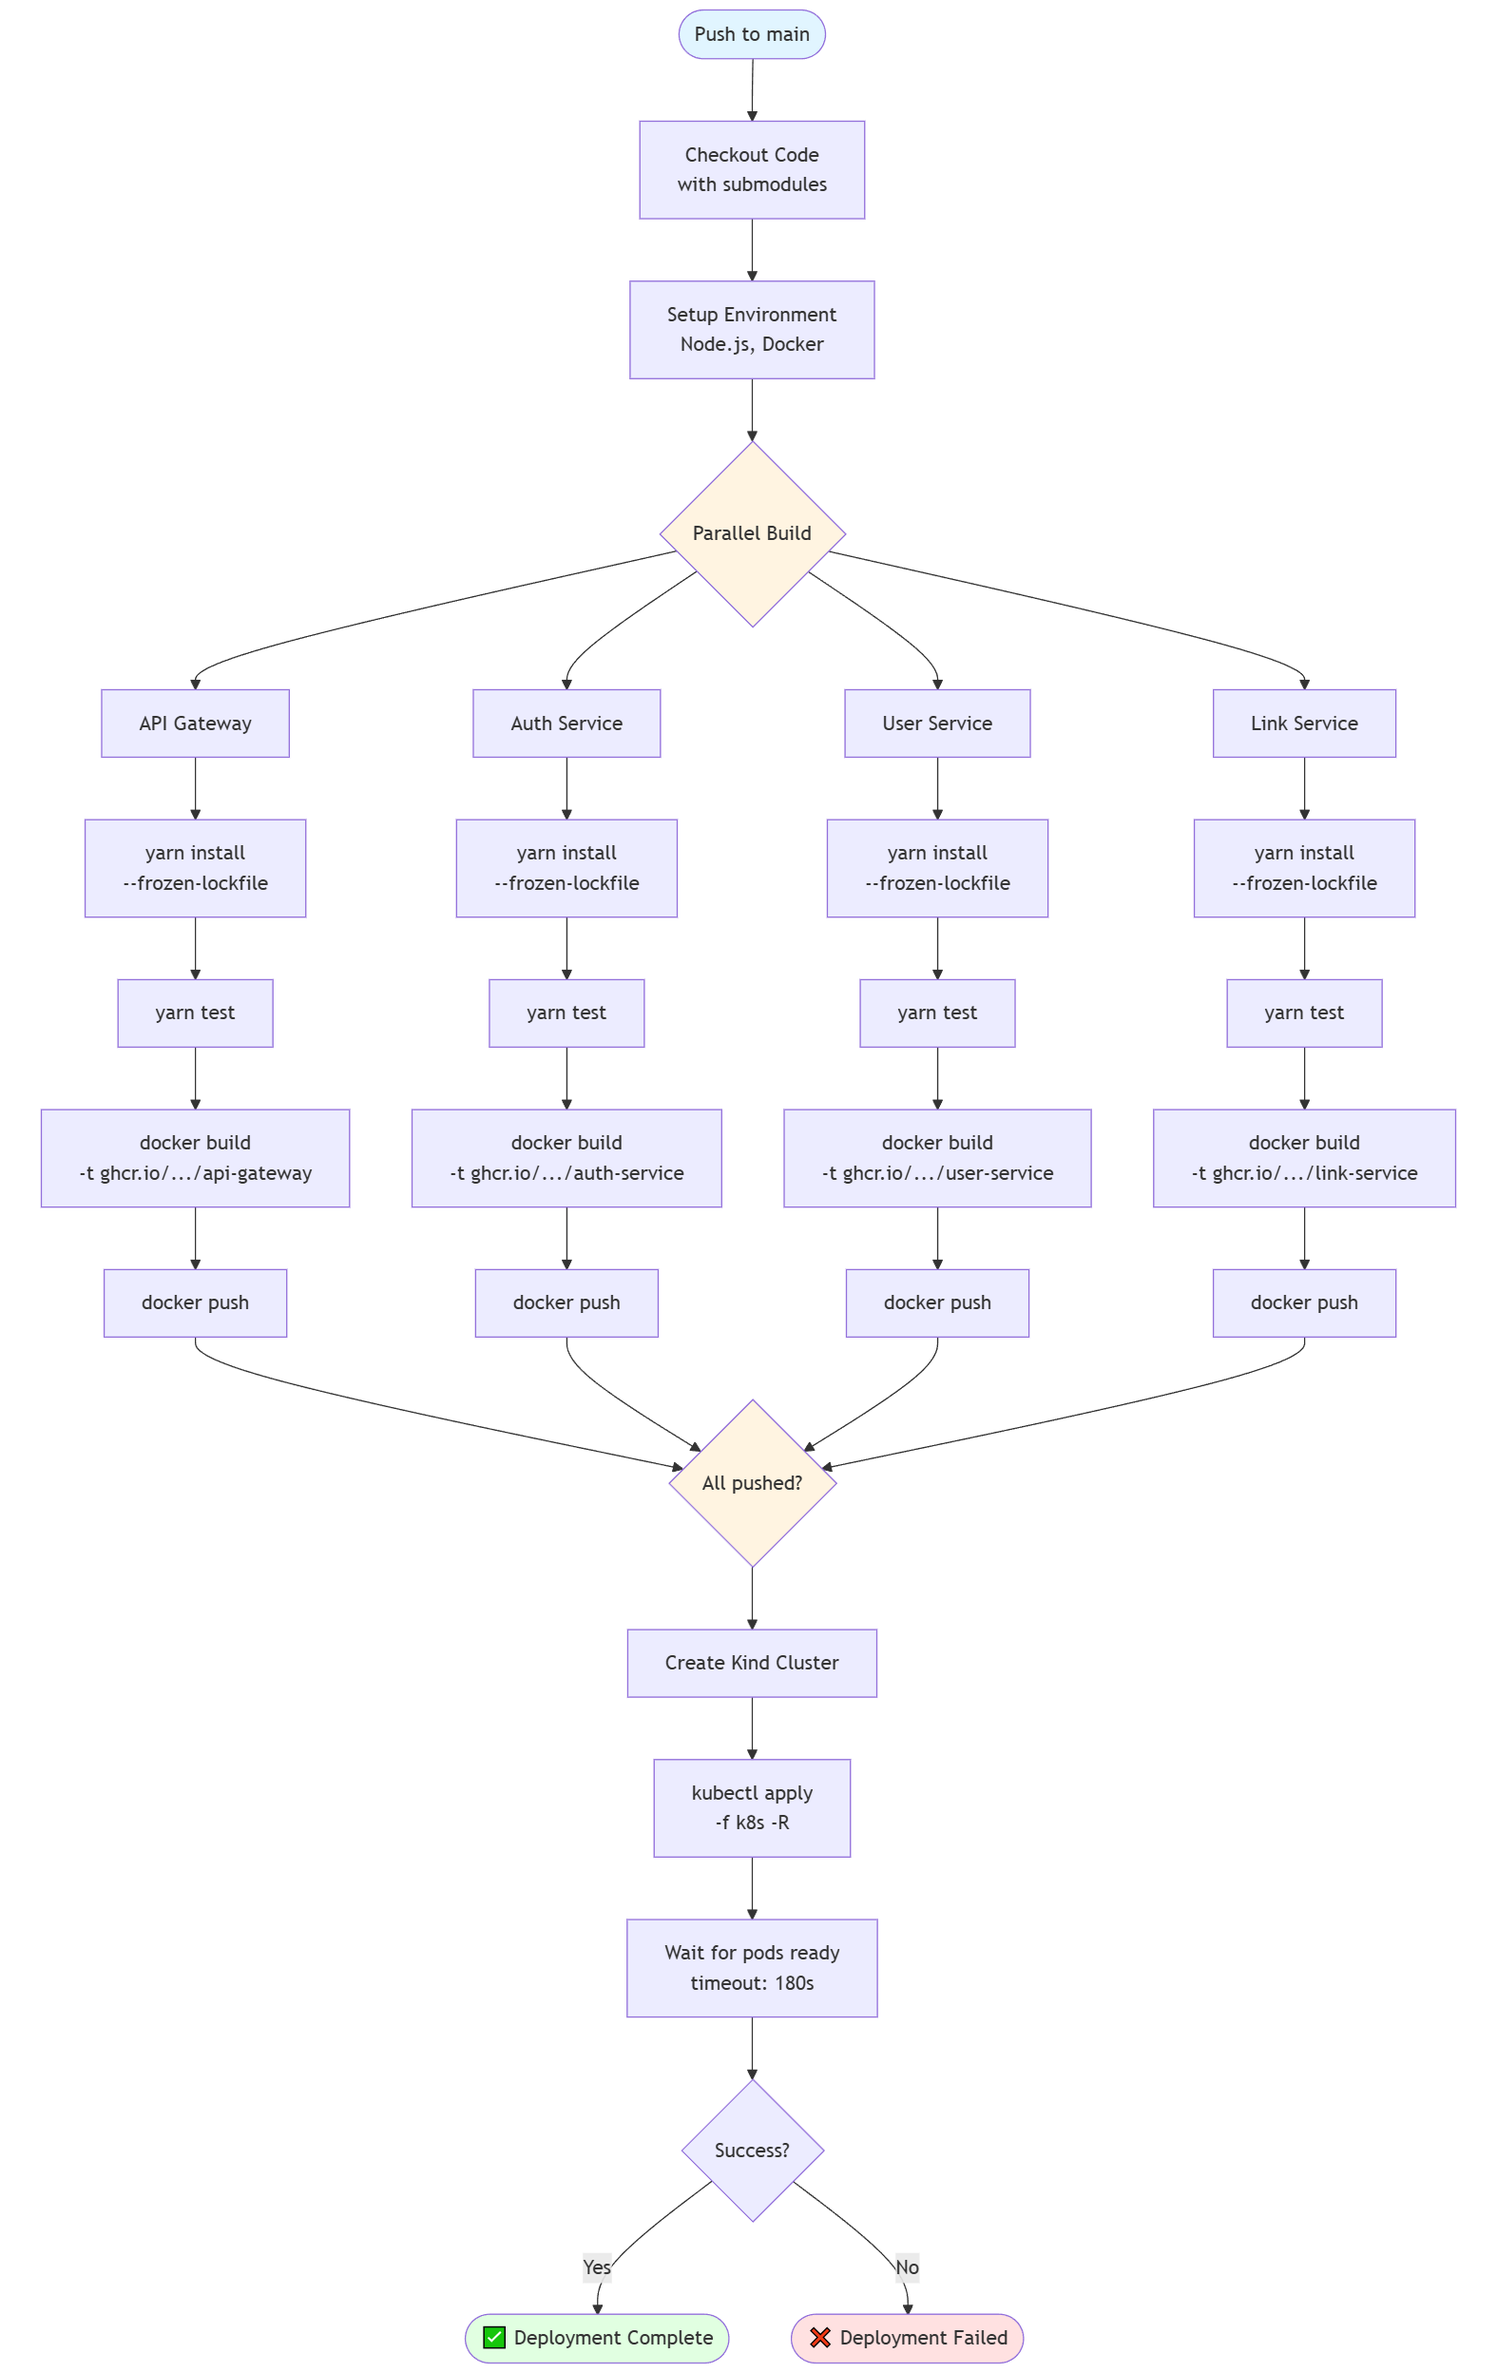
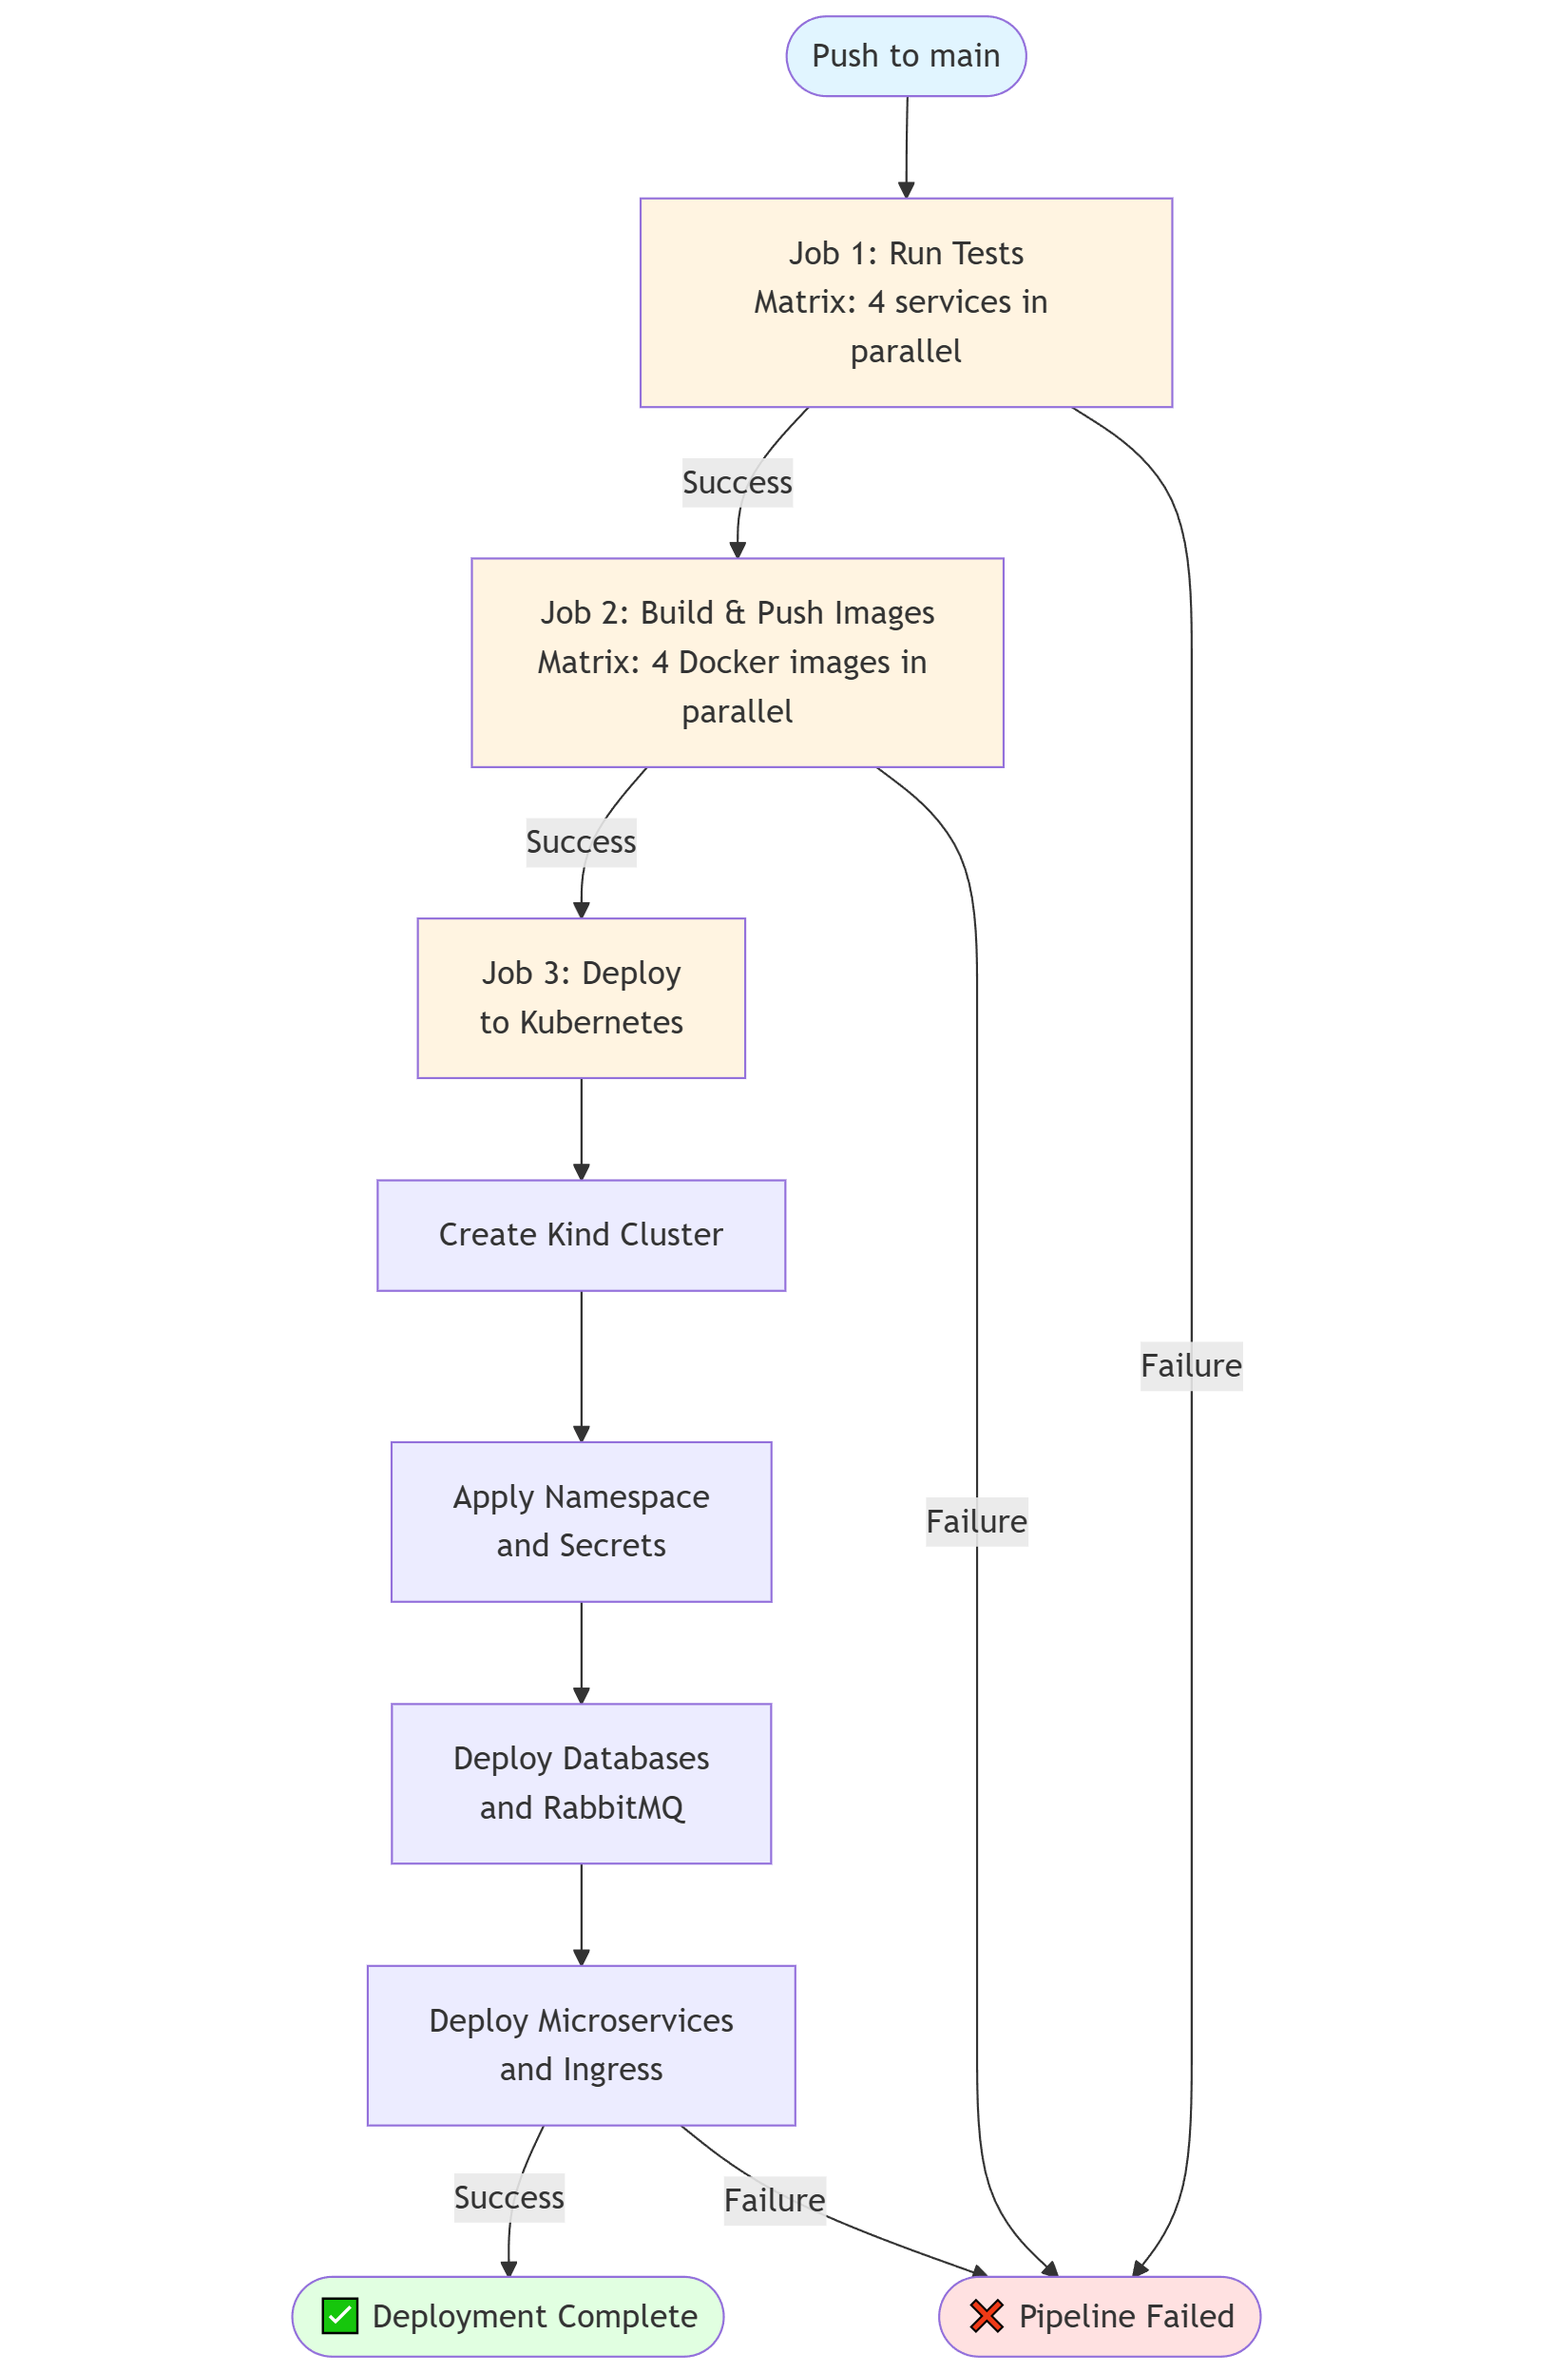
chore: update assets folder

diff --git a/assets/diagrams.md b/assets/diagrams.md
@@ -594,59 +594,31 @@ sequenceDiagram
 
 ### 7.1 GitHub Actions Workflow
 
-```mermaid
-graph TB
-    Start([Push to main]) --> Checkout[Checkout Code<br/>with submodules]
-    Checkout --> Setup[Setup Environment<br/>Node.js, Docker]
+````mermaid
+graph TD
+    Start([Push to main]) --> Job1[Job 1: Run Tests<br/>Matrix: 4 services in parallel]
 
-    Setup --> Parallel{Parallel Build}
+    Job1 -->|Success| Job2[Job 2: Build & Push Images<br/>Matrix: 4 Docker images in parallel]
+    Job1 -->|Failure| Failed([❌ Pipeline Failed])
 
-    Parallel --> Gateway[API Gateway]
-    Parallel --> Auth[Auth Service]
-    Parallel --> User[User Service]
-    Parallel --> Link[Link Service]
+    Job2 -->|Success| Job3[Job 3: Deploy to Kubernetes]
+    Job2 -->|Failure| Failed
 
-    Gateway --> GW_Install[yarn install<br/>--frozen-lockfile]
-    Auth --> AS_Install[yarn install<br/>--frozen-lockfile]
-    User --> US_Install[yarn install<br/>--frozen-lockfile]
-    Link --> LS_Install[yarn install<br/>--frozen-lockfile]
+    Job3 --> K8s_1[Create Kind Cluster]
+    K8s_1 --> K8s_2[Apply Namespace & Secrets]
+    K8s_2 --> K8s_3[Deploy Databases & RabbitMQ]
+    K8s_3 --> K8s_4[Deploy Microservices & Ingress]
 
-    GW_Install --> GW_Test[yarn test]
-    AS_Install --> AS_Test[yarn test]
-    US_Install --> US_Test[yarn test]
-    LS_Install --> LS_Test[yarn test]
-
-    GW_Test --> GW_Build[docker build<br/>-t ghcr.io/.../api-gateway]
-    AS_Test --> AS_Build[docker build<br/>-t ghcr.io/.../auth-service]
-    US_Test --> US_Build[docker build<br/>-t ghcr.io/.../user-service]
-    LS_Test --> LS_Build[docker build<br/>-t ghcr.io/.../link-service]
-
-    GW_Build --> GW_Push[docker push]
-    AS_Build --> AS_Push[docker push]
-    US_Build --> US_Push[docker push]
-    LS_Build --> LS_Push[docker push]
-
-    GW_Push --> Merge{All pushed?}
-    AS_Push --> Merge
-    US_Push --> Merge
-    LS_Push --> Merge
-
-    Merge --> K8s_Setup[Create Kind Cluster]
-    K8s_Setup --> K8s_Apply[kubectl apply<br/>-f k8s -R]
-    K8s_Apply --> K8s_Wait[Wait for pods ready<br/>timeout: 180s]
-
-    K8s_Wait --> Success{Success?}
-    Success -->|Yes| End([✅ Deployment Complete])
-    Success -->|No| Failed([❌ Deployment Failed])
+    K8s_4 -->|Success| End([✅ Deployment Complete])
+    K8s_4 -->|Failure| Failed
 
     style Start fill:#e1f5ff
+    style Job1 fill:#fff4e1
+    style Job2 fill:#fff4e1
+    style Job3 fill:#fff4e1
     style End fill:#e1ffe1
     style Failed fill:#ffe1e1
-    style Parallel fill:#fff4e1
-    style Merge fill:#fff4e1
-```
-
-### 7.2 Docker Build Pipeline
+```### 7.2 Docker Build Pipeline
 
 ```mermaid
 sequenceDiagram
@@ -677,4 +649,4 @@ sequenceDiagram
 
     Kind->>Kind: Create pods, services, ingress
     Kind-->>GHA: Deployment ready
-```
+````
